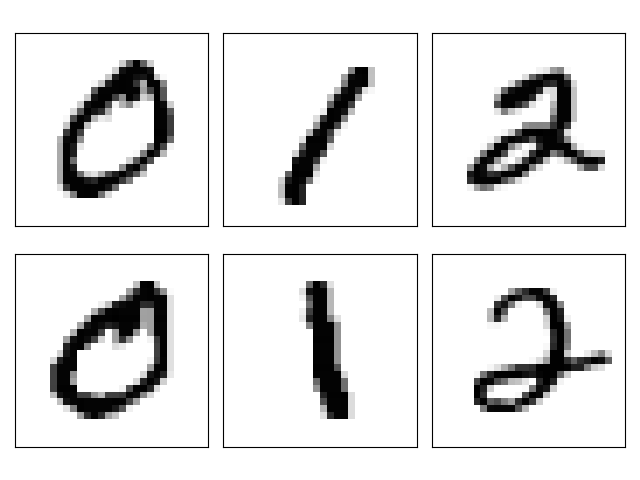
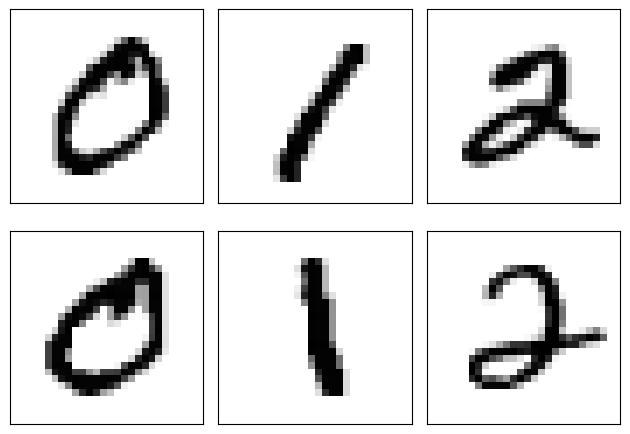
Regenerate input data images with tight boundary box

Changed region(s): [[0.0, 0.0599, 0.9952, 0.4793], [0.0, 0.5092, 0.9952, 0.9885]]

diff --git a/xai/experiments/cancer_classification/plot_cancer_input_data.py b/xai/experiments/cancer_classification/plot_cancer_input_data.py
@@ -51,4 +51,4 @@ fig, axs = plt.subplots(2, 4, sharex=True, sharey=True, subplot_kw={'xticks': []
 for ax, input_data in zip(axs.flat, test_data_images):
     ax.imshow(input_data)
 fig.tight_layout()
-plt.savefig(FIGURES_DIR / OUTPUT_FNAME, format='png')
+plt.savefig(FIGURES_DIR / OUTPUT_FNAME, format='png', bbox_inches='tight')

diff --git a/xai/experiments/latent_space_distribution/plot_mnist_input_data.py b/xai/experiments/latent_space_distribution/plot_mnist_input_data.py
@@ -37,4 +37,4 @@ for ax, input_data in zip(axs.flat, test_data_digits_reshaped):
     ax.imshow(input_data[0]*-1, cmap='gist_gray')
 fig.tight_layout()
 
-plt.savefig(FIGURES_DIR / OUTPUT_FNAME, format='png')
+plt.savefig(FIGURES_DIR / OUTPUT_FNAME, format='png', bbox_inches='tight')
